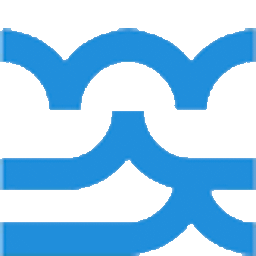
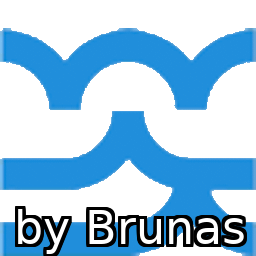
meteo_lt_by_brunas

Changed region(s): [[0.3125, 0.7812, 0.9688, 0.9688], [0.0312, 0.7812, 0.2812, 1.0]]

diff --git a/custom_components/meteo_lt/const.py b/custom_components/meteo_lt/const.py
@@ -2,7 +2,7 @@
 
 import logging
 
-DOMAIN = "meteo_lt"
-MANUFACTURER = "Meteo.Lt"
+DOMAIN = "meteo_lt_by_brunas"
+MANUFACTURER = "Meteo.Lt by Brunas"
 UPDATE_MINUTES = 30
 LOGGER = logging.getLogger(__package__)

diff --git a/CHANGELOG.md b/CHANGELOG.md
@@ -1,11 +1,12 @@
 ## Release 0.4.0
 
-Date: `2025-10-04`
+Date: `2025-10-08`
 
 ### Changes
 
 - Upped `meteo_lt-pkg` version to support weather warnings which will require more work to make them nicely available in Home Assistant
 - Upped `homeassistant` package version to `2025.1.4`
+- Domain changed to `meteo_lt_by_brunas` and the name to `Meteo.Lt by Brunas` to avoid confusion with `core/meteo_lt` by LHMT
 
 ## Release 0.3.1
 
